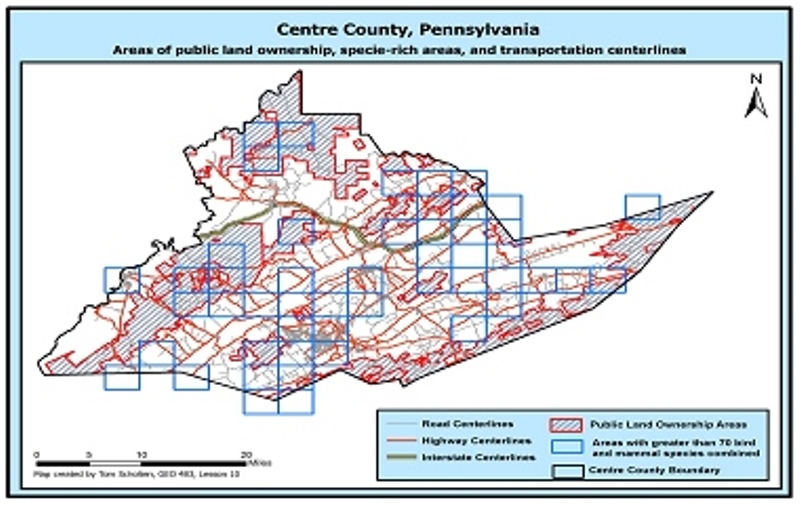
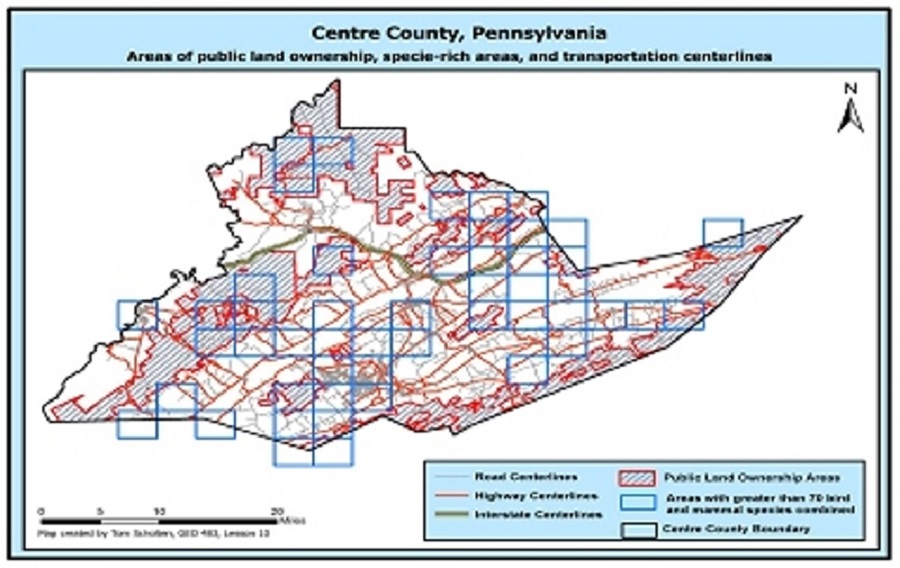
Add Lesson 10 changes_3.19 @12:00 PM

diff --git a/module-10/lesson-10-data/index.html b/module-10/lesson-10-data/index.html
@@ -6,10 +6,58 @@
 
 <meta name=‘viewport’ content=‘initial-scale=1,maximum-scale=1,user-scalable=no’ />
 
+ <link rel="stylesheet" href="https://cdnjs.cloudflare.com/ajax/libs/normalize/3.0.3/normalize.min.css" />   
+ <link href='http://fonts.googleapis.com/css?family=Imprima' rel='stylesheet' type='text/css'>
 <style>
     
+  header {
+width: 100%;
+min-width: 800px;
+margin: 0 auto;
+background: steelblue;
+padding: 15px 0 20px;
+}
+h1 {
+font-family: Dosis, sans-serif;
+color: #375671;
+width: 80%;
+margin: 0 auto;
+color: whitesmoke;
+}
+h2 {
+font-family: Dosis, sans-serif;
+color: #375671;
+width: 80%;
+margin: 0 auto;
+color: whitesmoke;
+}  
+    
+h3 {
+font-family: Dosis, sans-serif;
+color: #003d71
+}
+p {
+font-size: .9em;
+color: #375671;
+}
+ul {
+list-style-type: none;
+font-size: .9em;
+color: #375671;
+line-height: 1.6em;
+}
+a, a:visited {
+color: #003d71;
+}
+     
 /* CSS style rules go here! */   
 
+  body {
+        background: #E5DDDD;
+        font-family: Imprima, sans-serif;
+    }  
+    
+    
 </style>
 </head>
 
@@ -56,7 +104,16 @@
         <a href="Full-size-Images_Maps/Map4.jpg"><img src="Images_Maps/Map4.jpg" alt="Map of Crime" /></a>
     
         <h3></h3>
-        <p>This map illustrates multiple variables related to land use and habitat population as they relate to transportation planning</p>
+        <p>The goal of this map is to visualize on a map product those areas in Centre County, Pennsylvania that meet specified criteria. More specifically, the analysis will be used by the Centre County Planning Office to explore a proposed biological reserve system within Centre County. Areas that meet specific criteria would be protected based on a variety of factors including the number of different plant and mammal species and habitat quality. The map produced from this geospatial analysis will assist the decision making process of government officials in evaluating the proposed biological reserve system.  This map illustrates multiple variables related to land use and habitat population as they relate to transportation planning</p>
+        Summary of project goals:
+        
+        <li>Greater than 70 bird and mammalian species combined<a</li>
+        <li>Less than 10% of each study area occupied by buffered roads, highways, and interstates<a</li>
+        <li>High habitat potential<a</li>
+        <li>Publicly-owned land<a</li>
+        <li>Forested areas<a</li>
+        <li>Slope less than 10%<a</li>      
+             
         <p>The map was created using ArcGIS as well as U.S. Census and Pennsylvania state and county level data.</p>
         <ul>
             <li>See the map: <a href="Full-size-Images_Maps/Map4.jpg">Map of Centre County Pennsylvania</a></li>
